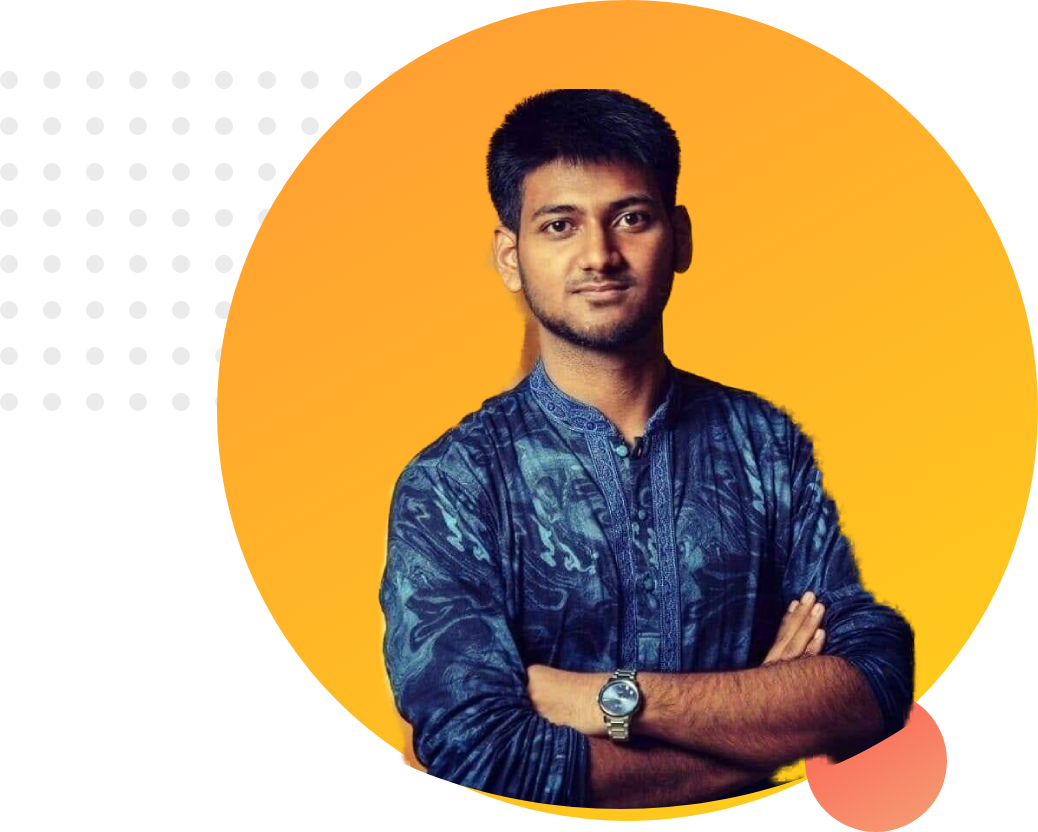
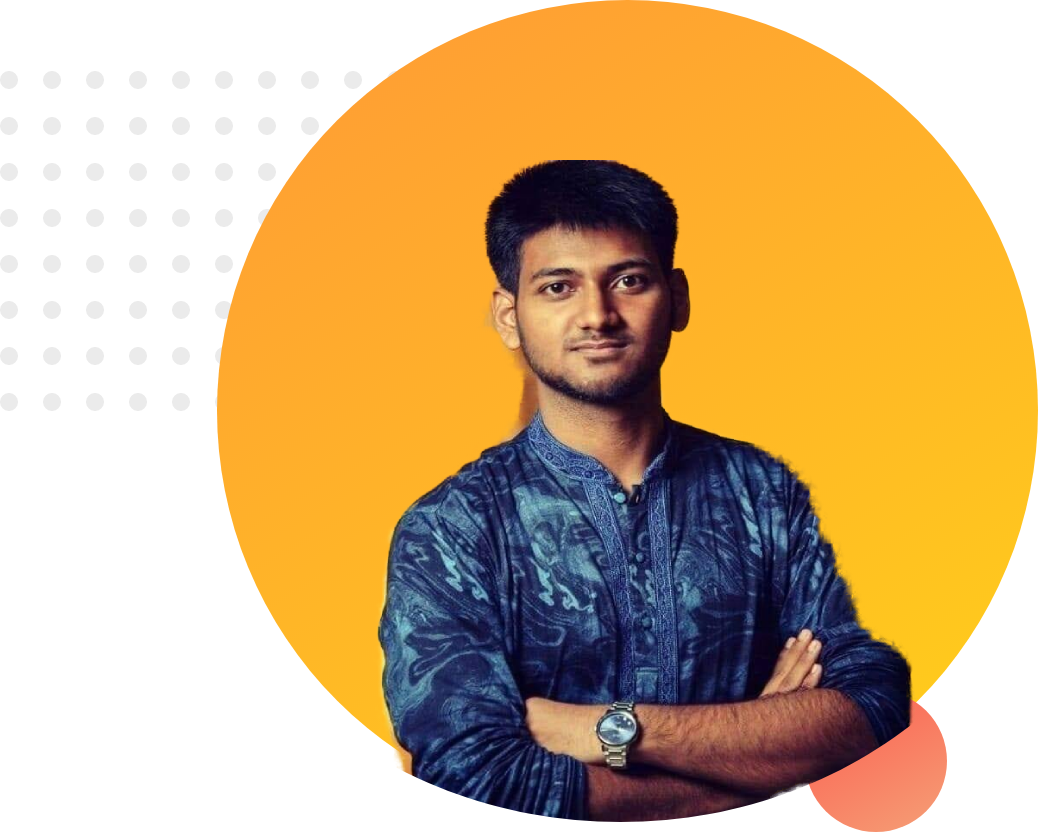
dream area

Changed region(s): [[0.3391, 0.0938, 0.894, 1.0]]

diff --git a/index.html b/index.html
@@ -22,5 +22,22 @@
             <img src="img/pro.png" alt="profile">
         </div>
    </section>
+
+   <section class="dream">
+
+    <div class="half-width">
+        <img src="img/dpro.png" alt="pro2">
+    </div>
+        <div class="half-width">
+            <h2>Big Dream</h2>
+            <h3>Become a Developer</h3>
+            <p>My dream is to become a software engineer . I've been trying to learn programming for the past couple days.I am trying hard and soul to make myself prove. </p>
+            <a  class="link-button"target="blank"href="https://www.facebook.com/profile.php?id=100010004771980">My Facebook</a>
+
+        </div>
+        
+
+
+   </section>
 </body>
 </html>

diff --git a/style.css b/style.css
@@ -10,6 +10,15 @@ h1{
     font-size: 50px;
 }
 
+h2{
+    font-size: 40px;
+}
+
+p{
+
+    color: dimgray;
+}
+
 .highlight{
 
     color:orange
@@ -35,6 +44,7 @@ h1{
 
 section{
     height:500px ;
+    padding-bottom: 150px;
 }
 
 .link-button{
@@ -45,4 +55,11 @@ section{
     color:whitesmoke;
     font-weight: 700;
     background-image:linear-gradient(#91185a , #a56ba7);
+}
+
+.dream{
+    background-image:url(img/dream-bg.png);
+    background-repeat:no-repeat;
+    background-position: right;
+    float:right;
 }
